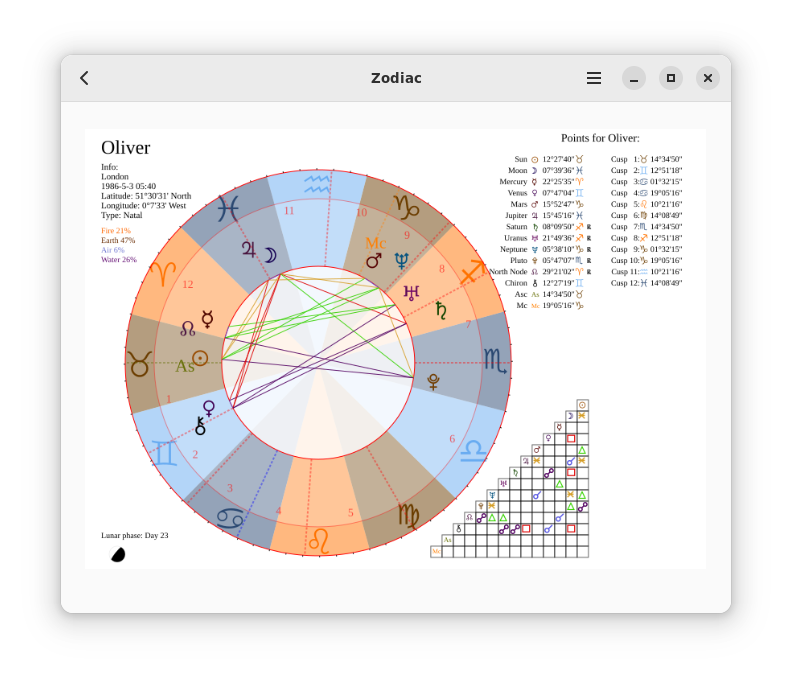
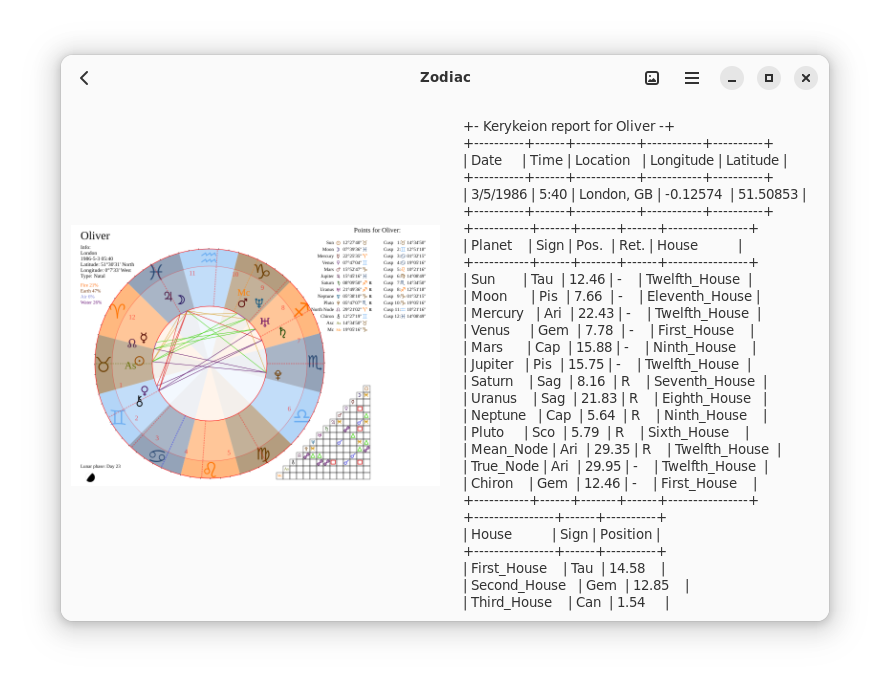
Add files via upload

Changed region(s): [[0.0606, 0.0926, 0.9394, 0.8956], [0.1212, 0.7721, 0.2121, 0.8338], [0.4545, 0.0926, 0.5455, 0.1235]]

diff --git a/src/window.py b/src/window.py
@@ -21,11 +21,9 @@ from gi.repository import Adw
 from gi.repository import Gtk
 from gi.repository import Gio
 from gi.repository import GLib
-from gi.repository import GdkPixbuf
 from datetime import datetime
 from pathlib import Path
 from kerykeion import AstrologicalSubject, KerykeionChartSVG, Report
-
 
 @Gtk.Template(resource_path='/io/github/alexkdeveloper/zodiac/window.ui')
 class ZodiacWindow(Adw.ApplicationWindow):
@@ -33,6 +31,7 @@ class ZodiacWindow(Adw.ApplicationWindow):
 
     drop_down = Gtk.Template.Child()
     show_button = Gtk.Template.Child()
+    show_image_button = Gtk.Template.Child()
     back_button = Gtk.Template.Child()
     next_button = Gtk.Template.Child()
     save_button = Gtk.Template.Child()
@@ -59,10 +58,13 @@ class ZodiacWindow(Adw.ApplicationWindow):
     entry_place2 = Gtk.Template.Child()
     combo2 = Gtk.Template.Child()
 
+    path_to_file = ""
+
     def __init__(self, **kwargs):
         super().__init__(**kwargs)
 
         self.show_button.connect("clicked", self.on_show_clicked)
+        self.show_image_button.connect("clicked", self.show_image)
         self.back_button.connect("clicked", self.on_back_clicked)
         self.next_button.connect("clicked", self.on_next_clicked)
         self.save_button.connect("clicked", self.show_open_dialog)
@@ -70,6 +72,7 @@ class ZodiacWindow(Adw.ApplicationWindow):
 
         self.back_button.set_visible(False)
         self.next_button.set_visible(False)
+        self.show_image_button.set_visible(False)
 
         self.settings = Gio.Settings(schema_id="io.github.alexkdeveloper.zodiac")
 
@@ -165,16 +168,15 @@ class ZodiacWindow(Adw.ApplicationWindow):
         chart.set_output_directory(Path(path))
         chart.makeSVG()
 
-        path_to_file = path+"/"+name+chart.chart_type+"Chart.svg"
+        self.path_to_file = path+"/"+name+chart.chart_type+"Chart.svg"
 
-        if Path(path_to_file).exists():
+        if Path(self.path_to_file).exists():
             self.set_toast(_("File saved successfully"))
         else:
             self.set_toast(_("Failed to save file"))
             return
 
-        pixbuf = GdkPixbuf.Pixbuf.new_from_file(path_to_file)
-        self.svg.set_from_pixbuf(pixbuf)
+        self.svg.set_from_file(self.path_to_file)
 
         self.text.set_text(report_text)
 
@@ -183,6 +185,7 @@ class ZodiacWindow(Adw.ApplicationWindow):
         self.drop_down.set_visible(False)
         self.next_button.set_visible(False)
         self.show_button.set_visible(False)
+        self.show_image_button.set_visible(True)
 
     def is_valid_date_time(self, day, month, year, hours, minutes):
         try:
@@ -198,6 +201,7 @@ class ZodiacWindow(Adw.ApplicationWindow):
            self.next_button.set_visible(False)
            self.drop_down.set_visible(True)
            self.show_button.set_visible(True)
+           self.show_image_button.set_visible(False)
         else:
            if self.stack.get_visible_child() == self.result_page:
               self.stack.set_visible_child(self.data_page2)
@@ -205,12 +209,14 @@ class ZodiacWindow(Adw.ApplicationWindow):
               self.next_button.set_visible(False)
               self.drop_down.set_visible(False)
               self.show_button.set_visible(True)
+              self.show_image_button.set_visible(False)
            else:
               self.stack.set_visible_child(self.data_page)
               self.back_button.set_visible(False)
               self.next_button.set_visible(True)
               self.drop_down.set_visible(True)
               self.show_button.set_visible(False)
+              self.show_image_button.set_visible(False)
 
     def on_next_clicked(self, widget):
         self.stack.set_visible_child(self.data_page2)
@@ -218,6 +224,29 @@ class ZodiacWindow(Adw.ApplicationWindow):
         self.next_button.set_visible(False)
         self.drop_down.set_visible(False)
         self.show_button.set_visible(True)
+        self.show_image_button.set_visible(False)
+
+    def show_image(self, widget):
+        win = Adw.Window()
+        win.set_title(_("Show Image"))
+        win.set_modal(True)
+        win.set_transient_for(self)
+        win.set_default_size(700, 400)
+
+        image = Gtk.Image()
+        image.set_from_file(self.path_to_file)
+        image.set_vexpand(True)
+        image.set_hexpand(True)
+
+        headerbar = Adw.HeaderBar()
+        headerbar.add_css_class("flat")
+
+        box = Gtk.Box.new(Gtk.Orientation.VERTICAL, 0)
+        box.append(headerbar)
+        box.append(image)
+
+        win.set_content(box)
+        win.show()
 
     def set_toast(self, str):
         toast = Adw.Toast(title=str)

diff --git a/src/main.py b/src/main.py
@@ -54,7 +54,7 @@ class ZodiacApplication(Adw.Application):
                                 application_name='Zodiac',
                                 application_icon='io.github.alexkdeveloper.zodiac',
                                 developer_name='Alex Kryuchkov',
-                                version='1.0.4',
+                                version='1.0.5',
                                 developers=['Alex Kryuchkov'],
                                 translator_credits=translator_credits,
                                 website='https://github.com/alexkdeveloper/zodiac',

diff --git a/README.md b/README.md
@@ -7,6 +7,4 @@ The application uses the [Kerykeion library](https://pypi.org/project/kerykeion/
 
 ![screenshot2.png](/data/screenshot2.png)
 
-![screenshot3.png](/data/screenshot3.png)
-
 [<img src="https://flathub.org/assets/badges/flathub-badge-en.svg" width="200" alt="Download on Flathub">](https://flathub.org/apps/details/io.github.alexkdeveloper.zodiac)
